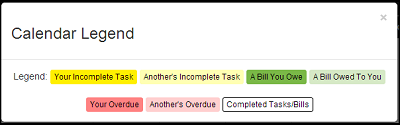
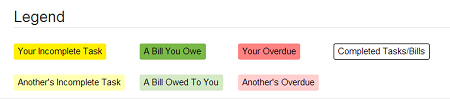
edited panel color scheme and updated tutorials

diff --git a/app/assets/javascripts/controllers/homeViewController.js b/app/assets/javascripts/controllers/homeViewController.js
@@ -173,8 +173,8 @@ angular.module('myapp').controller("homeViewController",
 
           //If task is mine, display with box
           if (TaskModel.isInvolved(this.id)) {
-            newEventObj["backgroundColor"] = (dateLessThan) ? "#ff8282" : "#ffef00"; //yellow
-            newEventObj["borderColor"] = (dateLessThan) ? "#ff8282" : "#ffef00";
+            newEventObj["backgroundColor"] = (dateLessThan) ? "#ff8282" : "#fbff3b"; //yellow
+            newEventObj["borderColor"] = (dateLessThan) ? "#ff8282" : "#fbff3b";
           }
         }
         // finished 
@@ -272,7 +272,10 @@ angular.module('myapp').controller("homeViewController",
             } 
             //a task I'm not responsible for
             else {
-              completeBtn = "Not Your Task";
+              taskPanel = "<div class='panel panel-danger'>" + 
+                    "<div class='panel-heading'>" + 
+                      "<div class='task-panel'>";
+              // completeBtn = "Not Your Task";
             }
           } 
           // task done
@@ -317,7 +320,7 @@ angular.module('myapp').controller("homeViewController",
           } 
           //the bill has not been paid, pink
           else {
-            billColor = "<div class='panel panel-danger'>" + 
+            billColor = "<div class='panel panel-success'>" + 
                     "<div class='panel-heading'>" + 
                       "<div class='task-panel'>";
           }
@@ -333,7 +336,7 @@ angular.module('myapp').controller("homeViewController",
           } 
           //the bill has not been paid, green with pay button
           else {
-            billColor = "<div class='panel panel-success'>" + 
+            billColor = "<div class='panel panel-danger'>" + 
                     "<div class='panel-heading'>" + 
                       "<div class='task-panel'>";
             // paidTag = "<button class='btn btn-success btn-xs' ng-click='finishEvent()' data-dismiss='modal'>" +

diff --git a/app/assets/stylesheets/home.css b/app/assets/stylesheets/home.css
@@ -138,8 +138,8 @@ div.tabs.selected_groups button.selected_groups{
 }
 
 .btn-myTask {
-  background-color: #ffef00;
-  border-color: #ffef00;
+  background-color: #fbff3b;
+  border-color: #fbff3b;
   color: black;
 }
 
@@ -177,4 +177,22 @@ div.tabs.selected_groups button.selected_groups{
   background-color: white;
   border-color: black;
   color: black;
+}
+
+.panel-warning > .panel-heading {
+  color: #8a6d3b;
+  background-color: #ffffb3;
+  border-color: #ffffb3;
+}
+
+.panel-danger > .panel-heading {
+  color: #a94442;
+  background-color: #ffcfcf;
+  border-color: #ffcfcf;
+}
+
+.panel-success > .panel-heading {
+  color: #3c763d;
+  background-color: #d6e9c6;
+  border-color: #d6e9c6;
 }

diff --git a/app/assets/stylesheets/tasks.css b/app/assets/stylesheets/tasks.css
@@ -107,8 +107,8 @@ textarea {
   right: 80px;
   top: 250px;
   padding: 10px;
-  background-color: #fcf8e3;
-  border: 5px solid #faebcc;
+  background-color: #ffffcd;
+  border: 2px solid #ffffb3;
   border-radius: 5px;
   display: none;
 }
@@ -121,7 +121,7 @@ textarea {
   top: 250px;
   padding: 10px;
   background-color: #F0F0F0;
-  border: 5px solid #ddd;
+  border: 2px solid #ddd;
   border-radius: 5px;
   display: none;
 }
